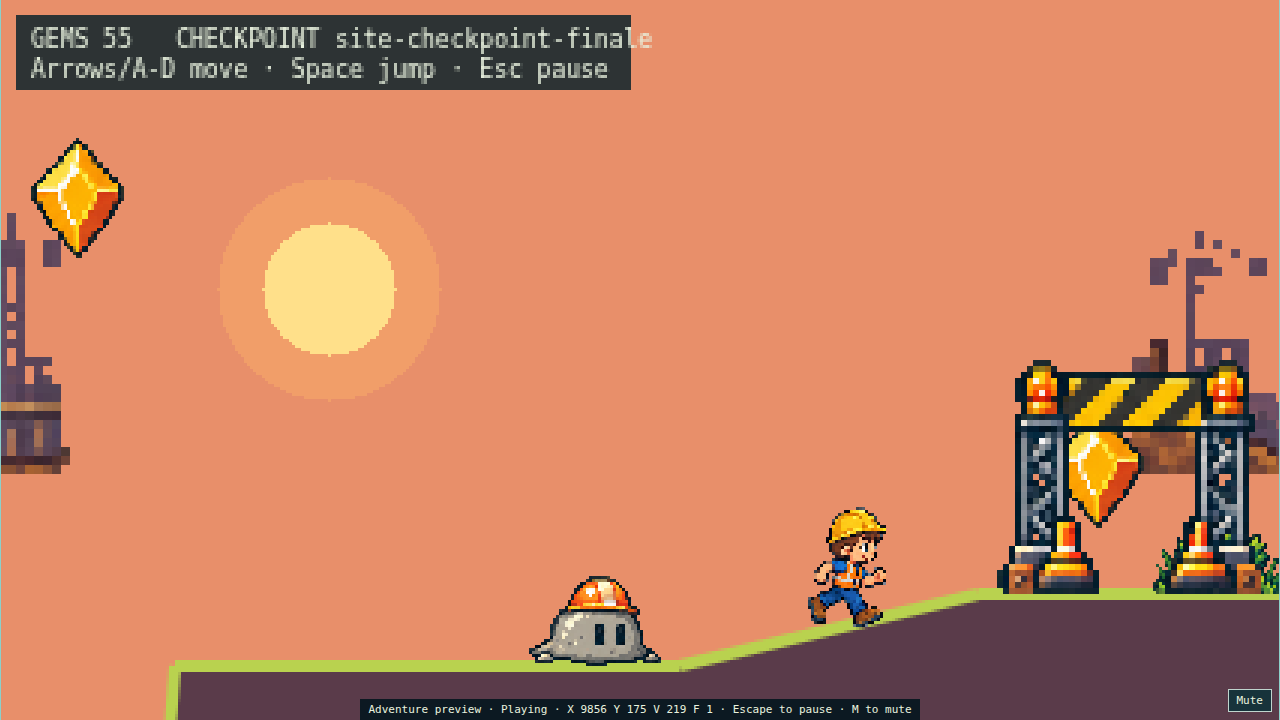
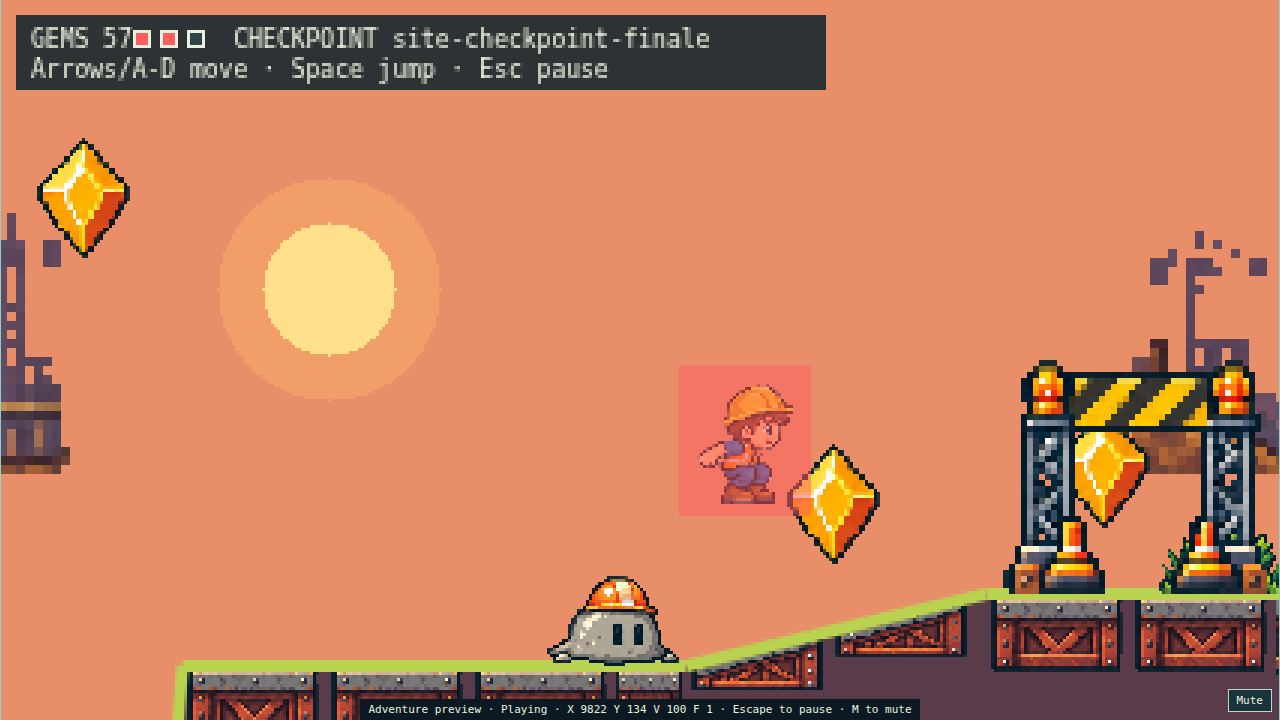
fix: render Sunset Site girder terrain

Changed region(s): [[0.125, 0.4889, 1.0, 1.0], [0.0938, 0.0, 0.6562, 0.1222], [0.0, 0.1833, 0.125, 0.3667]]

diff --git a/tests/browser.spec.ts b/tests/browser.spec.ts
@@ -505,7 +505,19 @@ test('title picker renders Treetop Timbers with its own atlas', async ({ page },
   await info.attach('treetop-timbers', { path: screenshot, contentType: 'image/png' });
 });
 
-test('title picker wraps back to Sunset Site and starts it', async ({ page }) => {
+test('title picker wraps back to Sunset Site and renders its terrain atlas', async ({ page }) => {
+  await page.addInitScript(() => {
+    const original = CanvasRenderingContext2D.prototype.drawImage;
+    CanvasRenderingContext2D.prototype.drawImage = function (this: CanvasRenderingContext2D,
+      ...args: Parameters<typeof original>) {
+      const image = args[0];
+      if (image instanceof HTMLImageElement && image.src.endsWith('/assets/site/environment.png')
+        && args.length === 9 && Number(args[2]) === 0) {
+        this.canvas.dataset.siteTerrainAtlas = image.src;
+      }
+      Reflect.apply(original, this, args);
+    } as typeof original;
+  });
   await page.goto('/?scene=adventure&debug=1');
   await expect(page.locator('#status')).toContainText('Adventure preview · Title', { timeout: 15000 });
   // Left from Plains wraps to the last registered level.
@@ -514,6 +526,9 @@ test('title picker wraps back to Sunset Site and starts it', async ({ page }) =>
   await page.keyboard.up('ArrowLeft');
   await page.keyboard.press('Space');
   await expect(page.locator('#status')).toContainText('Adventure preview · Playing');
+  await expect(page.locator('canvas')).toHaveAttribute(
+    'data-site-terrain-atlas', /\/assets\/site\/environment\.png$/,
+  );
   await page.keyboard.down('ArrowRight');
   await page.waitForTimeout(600);
   await page.keyboard.up('ArrowRight');

diff --git a/tests/world-assets.test.ts b/tests/world-assets.test.ts
@@ -14,6 +14,12 @@ it('ships a complete grounded construction atlas for Sunset Site', () => {
   expect(Object.values(site.assets).sort((a, b) => Number(a) - Number(b))).toEqual(
     Array.from({ length: 16 }, (_, index) => index),
   );
+  expect(site.terrainTops).toEqual({
+    'terrain-flat': { left: 18, right: 18 },
+    'terrain-left': { left: 11, right: 17 },
+    'terrain-right': { left: 17, right: 10 },
+    'terrain-ramp': { left: 29, right: 8 },
+  });
   for (const asset of ['stone', 'cave', 'tree', 'flowers', 'spring', 'slime', 'checkpoint', 'finish-arch', 'bush']) {
     expect(site.anchors[asset], asset).toEqual({ x: 24, y: 44 });
   }

diff --git a/tests/sunset-site.test.ts b/tests/sunset-site.test.ts
@@ -95,6 +95,7 @@ it('registers a playable Sunset Site alongside the other three routes', () => {
   expect(() => validateLevel(SUNSET_SITE)).not.toThrow();
   expect(SUNSET_SITE.name).toBe('SUNSET SITE');
   expect(SUNSET_SITE.atlas).toBe('site');
+  expect(SUNSET_SITE.theme.texturedTerrain).toBe(true);
 });
 
 it('paints a warm low sun without losing the grass-green edge', () => {

diff --git a/src/world/sunset-site.ts b/src/world/sunset-site.ts
@@ -62,6 +62,7 @@ export const SUNSET_SITE: LevelData = {
   name: 'SUNSET SITE',
   atlas: 'site',
   theme: {
+    texturedTerrain: true,
     sky: '#e88f6a',
     ground: '#5a3b4a',
     edge: '#b9d24f',

diff --git a/docs/FIRST-PLAYABLE-RELEASE.md b/docs/FIRST-PLAYABLE-RELEASE.md
@@ -12,7 +12,7 @@ follow-up issue; it does not reopen this release.
 An adult or developer installs Node.js 22.12 or newer, runs `npm ci`, then runs
 `npm run play` from the repository. On Windows, macOS and Linux, this starts the
 local server and opens `/?scene=adventure` in the default browser for Henry.
-Use Left/Right to choose Plains, Quarry Run or Sunset Site, then press Space or any standard
+Use Left/Right to choose Plains, Quarry Run, Treetop Timbers or Sunset Site, then press Space or any standard
 face button (A/B/X/Y) at the title screen to begin. If the browser
 does not open, use the local URL printed by Vite and append
 `/?scene=adventure`. Use the printed port, since Vite chooses another if the
@@ -65,7 +65,7 @@ now-fixed defect findings are preserved in
 | Pause/resume | Escape | Start |
 | Mute | M or on-screen Mute button | On-screen Mute button |
 
-The adventure title selects Plains, Quarry Run or Sunset Site with Left/Right, then starts
+The adventure title selects Plains, Quarry Run, Treetop Timbers or Sunset Site with Left/Right, then starts
 with Space or any standard controller face button (A/B/X/Y).
 Jump accepts any standard-mapping face button, not only the primary one, as a
 compatibility hedge across controller/browser combinations (see
@@ -93,8 +93,8 @@ Web Audio cannot start. `/?audio` previews the six effects and the music loop.
 
 The certified release documented here covered one desktop-browser Plains route
 with meadow, wooded hillside and cave-themed scenery. The current build also
-offers Quarry Run and Sunset Site through the title picker. Quarry Run reuses
-the Plains atlas, while Sunset Site has a dedicated construction-yard atlas.
+offers Quarry Run, Treetop Timbers and Sunset Site through the title picker. Quarry Run reuses
+the Plains atlas, while Treetop Timbers and Sunset Site have dedicated atlases.
 Mining, building, crafting, loops, charged dashes, touch
 controls, public hosting and persistent progress remain deliberately out of
 scope. The generated source art and processed atlases are project-local; the

diff --git a/docs/plains-adventure.md b/docs/plains-adventure.md
@@ -1,9 +1,9 @@
 # Adventure screens and levels — issue #6
 
 Open `/` (or `/?scene=adventure`) for the complete first-play shell. The title
-screen uses Left/Right to select Plains, Quarry Run or Sunset Site, then starts with Space or
-any standard controller face button (A/B/X/Y). The loading state is entered before local
-assets are ready, and each playable route uses the shared movement and run
+screen uses Left/Right to select Plains, Quarry Run, Treetop Timbers or Sunset Site, then starts with Space or
+any standard controller face button (A/B/X/Y). Local atlases are loaded before the picker
+appears, and each playable route uses the shared movement and run
 interaction systems. Escape uses the foundation pause gate, freezing the
 fixed-step simulation; Space on the finish screen creates a fresh run and
 returns to the picker.
@@ -35,9 +35,8 @@ one optional crane ferry over the yard's hazards. Its theme adds a low
 `sun` (a stepped pixel disc drawn behind the ground) and a warm palette that
 keeps the grass-green edge. Its own construction atlas supplies girder terrain,
 a cone-and-cement-mixer hazard, scaffolding, culvert pipes, weeds, pneumatic
-jacks, cement slimes and a sunset construction skyline. Starting a route loads
-and caches its atlas, keeping the title on a visible loading state until the
-asset is ready; a failure can be retried with Space. Control prompts are short
+jacks, cement slimes and a sunset construction skyline. Startup preloads each
+registered atlas; a failure exposes the page's Reload retry button. Control prompts are short
 and visual enough for the intended six-year-old player.
 
 The Plains route is long enough that an automated hold-right traversal (no jumping,

diff --git a/docs/evidence/issue-85/README.md b/docs/evidence/issue-85/README.md
@@ -29,9 +29,12 @@ firsthand six-year-old playtest. That manual playtest remains outstanding.
 
 Linux, Node 22.22.1, Playwright 1.63.0.
 
-- `npm run typecheck`, `npm test` (363 passed), and `npm run build`: passed.
+- `npm run typecheck`, `npm test` (385 passed), and `npm run build`: passed.
 - Full browser matrix with one worker (`npx playwright test --workers=1`):
-  101 passed and 1 skipped (the existing Firefox native-audio probe). This
+  104 passed and 1 skipped (the existing Firefox native-audio probe). This
   serialized run avoids the repository's known parallel-load timeouts; the
-  Site picker/loading and gameplay checks passed in Chromium, Firefox and
+  Site picker/loading, terrain-atlas and gameplay checks passed in Chromium, Firefox and
   WebKit.
+- After review enabled the previously omitted girder terrain layer, the focused
+  Site terrain-atlas regression passed in Chromium, Firefox and WebKit; all five
+  screenshots above were recaptured from that corrected production build.
